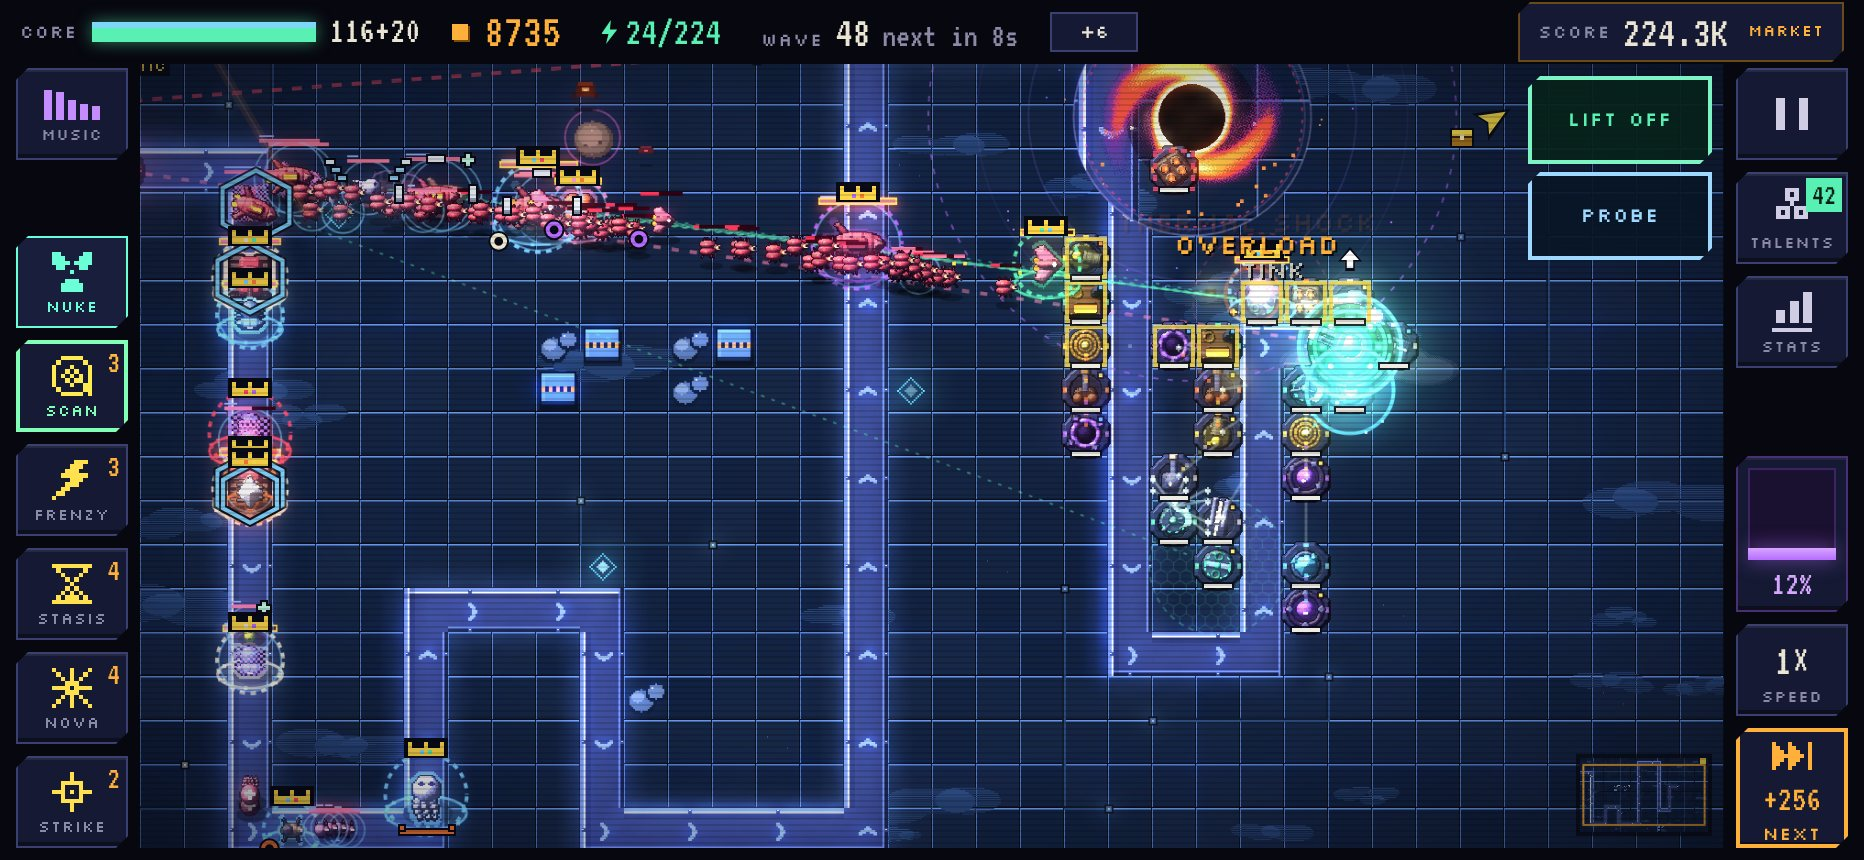
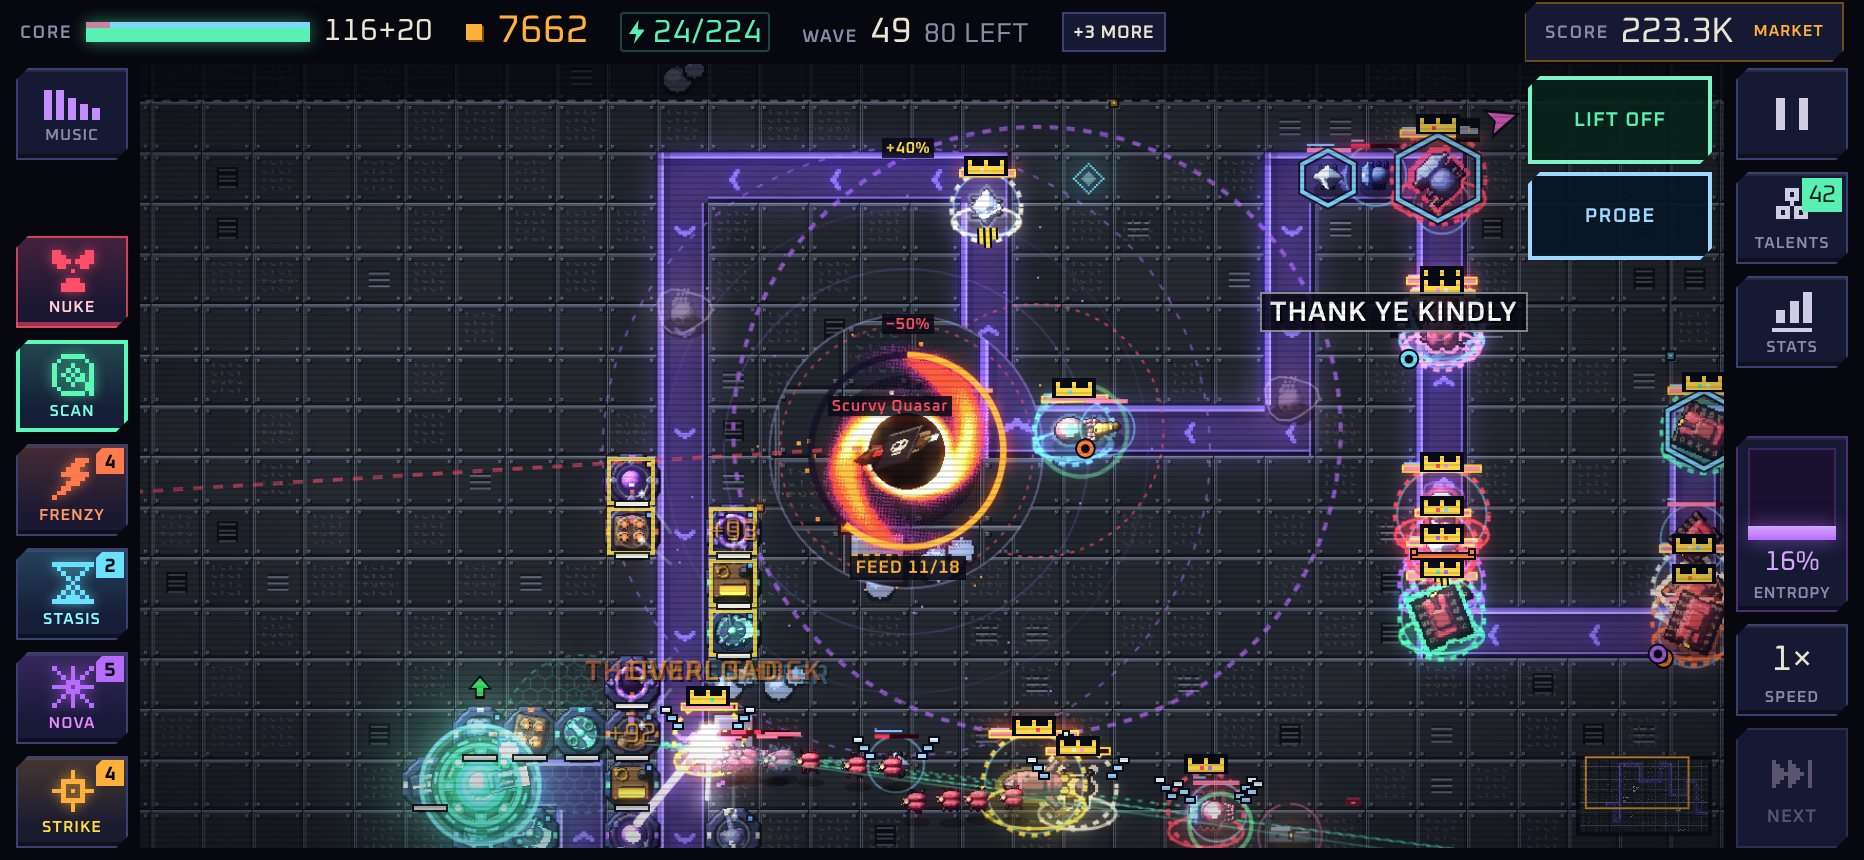
Website: match game 6.14 (Oxanium font, new shots, story line, Black Hole, probe and storms, checkpoints, Daily Hunt at Level 20 with shared dice, Training)
Claude-Session: https://claude.ai/code/session_01CJF2sFLs5GGkfx8iU7XwpD

diff --git a/index.html b/index.html
@@ -18,24 +18,25 @@
 <style>html{background:#07080f}body{margin:0}img{max-width:100%}[hidden]{display:none!important}</style>
 </head>
 <body>
-<link rel="stylesheet" href="https://fonts.googleapis.com/css2?family=Silkscreen:wght@400;700&family=VT323&display=swap">
+<link rel="stylesheet" href="https://fonts.googleapis.com/css2?family=Oxanium:wght@400;600;700&family=Silkscreen:wght@700&display=swap">
 <style>
 /* Layout: a left-aligned console column over the hangar sky. Title and sign-up first, then proof (screens), then the briefing. One dark world, the game's own. */
 :root {
   --bg: #07080f; --panel: #0e1121; --panel2: #151933; --line: #2a2f52; --line2: #3a4170;
-  --ink: #e9e4d4; --dim: #9a99b8; --amber: #ffb03a; --core: #59f0b4; --bad: #ff4d6a; --void: #b86cff; --cryo: #6ae2ff;
-  --f-pix: 'Silkscreen', 'Courier New', monospace; --f-term: 'VT323', 'Courier New', monospace;
+  --ink: #e9e4d4; --dim: #9a99b8; --amber: #ffb03a; --core: #59f0b4; --bad: #ff4d6a; --void: #b86cff; --cryo: #6ae2ff; --solar: #ff7b39;
+  --f-logo: 'Silkscreen', 'Courier New', monospace; --f-pix: 'Oxanium', 'Courier New', monospace; --f-term: 'Oxanium', 'Courier New', monospace;
   --cut: polygon(10px 0, 100% 0, 100% calc(100% - 10px), calc(100% - 10px) 100%, 0 100%, 0 10px);
   --w: 1120px;
   color-scheme: dark;
 }
 *, *::before, *::after { box-sizing: border-box; }
-body { background: var(--bg); color: var(--ink); font-family: var(--f-term); font-size: 22px; line-height: 1.25; }
+body { background: var(--bg); color: var(--ink); font-family: var(--f-term); font-size: 18px; line-height: 1.45; }
 .wrap { max-width: var(--w); margin: 0 auto; padding-left: max(20px, env(safe-area-inset-left, 0px)); padding-right: max(20px, env(safe-area-inset-right, 0px)); }
-h1, h2, h3, .lbl, button, .tag { font-family: var(--f-pix); font-weight: 400; }
-h2 { font-size: clamp(20px, 3vw, 28px); letter-spacing: 0.08em; margin: 0; text-wrap: balance; color: var(--ink); }
+h2, h3, .lbl, button, .tag { font-family: var(--f-pix); font-weight: 700; text-transform: uppercase; }
+h1 { font-family: var(--f-logo); font-weight: 700; }
+h2 { font-size: clamp(22px, 3vw, 30px); letter-spacing: 0.06em; line-height: 1.15; margin: 0; text-wrap: balance; color: var(--ink); }
 p { margin: 0; max-width: 60ch; }
-.lbl { font-size: 11px; letter-spacing: 0.22em; text-transform: uppercase; color: var(--dim); }
+.lbl { font-size: 12px; font-weight: 600; letter-spacing: 0.2em; text-transform: uppercase; color: var(--dim); }
 a { color: var(--cryo); }
 :focus-visible { outline: 2px solid var(--amber); outline-offset: 3px; }
 
@@ -46,26 +47,27 @@ a { color: var(--cryo); }
   -webkit-mask-image: linear-gradient(90deg, transparent, #000 30%); mask-image: linear-gradient(90deg, transparent, #000 30%); }
 .hero .wrap { position: relative; padding-block: clamp(40px, 8vw, 96px) clamp(36px, 6vw, 72px); display: flex; flex-direction: column; gap: 28px; }
 .status { display: flex; flex-wrap: wrap; gap: 10px 18px; align-items: center; }
-.tag { font-size: 11px; letter-spacing: 0.2em; padding: 6px 10px; color: var(--bg); background: var(--core); clip-path: polygon(5px 0, 100% 0, 100% calc(100% - 5px), calc(100% - 5px) 100%, 0 100%, 0 5px); }
+.tag { font-size: 12px; letter-spacing: 0.18em; padding: 6px 10px; color: var(--bg); background: var(--core); clip-path: polygon(5px 0, 100% 0, 100% calc(100% - 5px), calc(100% - 5px) 100%, 0 100%, 0 5px); }
 h1 { margin: 0; line-height: 0.95; position: relative; width: fit-content; max-width: 100%; }
 h1 .last { display: block; font-size: clamp(16px, 3.4vw, 34px); letter-spacing: 0.55em; margin-bottom: 0.35em; color: var(--ink); text-shadow: 2px 0 var(--bad), -2px 0 var(--cryo); }
 h1 .grad { display: block; font-weight: 700; font-size: clamp(38px, 10.5vw, 118px); letter-spacing: 0.02em;
   background: linear-gradient(90deg, var(--ink) 0%, var(--ink) 34%, var(--cryo) 62%, var(--void) 86%, transparent 100%);
   -webkit-background-clip: text; background-clip: text; color: transparent; filter: drop-shadow(3px 0 0 rgba(255, 77, 106, 0.55)); }
 #shards { position: absolute; right: -14%; top: 20%; width: 46%; height: 90%; pointer-events: none; }
-.pitch { font-size: clamp(24px, 3vw, 32px); line-height: 1.15; max-width: 28ch; }
-.pitch b { color: var(--amber); font-weight: 400; }
+.pitch { font-size: clamp(21px, 2.6vw, 27px); line-height: 1.3; max-width: 30ch; font-weight: 600; }
+.pitch b { color: var(--amber); font-weight: 600; }
+.lore { color: var(--dim); max-width: 44ch; padding-left: 14px; box-shadow: inset 2px 0 0 var(--cryo); }
 
 /* ---- sign-up ---- */
 .signup { display: flex; flex-direction: column; gap: 10px; max-width: 520px; }
 .signup .row { display: flex; flex-wrap: wrap; gap: 10px; }
-.signup input { flex: 1 1 220px; min-width: 0; font: inherit; font-size: 22px; color: var(--ink); background: rgba(14, 17, 33, 0.88); border: 0; box-shadow: inset 0 0 0 2px var(--line2); padding: 12px 14px; clip-path: var(--cut); }
+.signup input { flex: 1 1 220px; min-width: 0; font: inherit; font-size: 18px; color: var(--ink); background: rgba(14, 17, 33, 0.88); border: 0; box-shadow: inset 0 0 0 2px var(--line2); padding: 12px 14px; clip-path: var(--cut); }
 .signup input::placeholder { color: var(--dim); }
 .signup input:focus-visible { outline: none; box-shadow: inset 0 0 0 2px var(--amber); }
 .signup button { flex: 0 0 auto; font-size: 14px; letter-spacing: 0.18em; color: #0b0b12; background: var(--amber); border: 0; padding: 14px 22px; cursor: pointer; clip-path: var(--cut); box-shadow: inset 0 -4px 0 rgba(0, 0, 0, 0.22); }
 .signup button:hover { background: #ffc264; }
-.signup small { font-size: 18px; color: var(--dim); }
-.signup .msg { font-size: 20px; color: var(--core); min-height: 1.25em; }
+.signup small { font-size: 15px; color: var(--dim); }
+.signup .msg { font-size: 16px; color: var(--core); min-height: 1.25em; }
 .signup .msg.err { color: var(--bad); }
 
 /* ---- sections ---- */
@@ -73,26 +75,26 @@ section .wrap { padding-block: clamp(40px, 6vw, 72px); display: flex; flex-direc
 .head { display: flex; flex-direction: column; gap: 10px; }
 .shot { margin: 0; display: flex; flex-direction: column; gap: 10px; }
 .shot img { display: block; width: 100%; height: auto; clip-path: var(--cut); box-shadow: 0 0 0 1px var(--line2); image-rendering: auto; background: var(--panel); }
-.shot figcaption { font-size: 20px; color: var(--dim); max-width: 60ch; }
-.shot figcaption b { color: var(--ink); font-weight: 400; }
+.shot figcaption { font-size: 16px; color: var(--dim); max-width: 64ch; }
+.shot figcaption b { color: var(--ink); font-weight: 600; }
 .pair { display: grid; grid-template-columns: repeat(auto-fit, minmax(min(100%, 420px), 1fr)); gap: 26px; }
 
 .brief { border-block: 1px solid var(--line); background: linear-gradient(180deg, var(--panel), var(--bg)); }
 .facts { display: grid; grid-template-columns: repeat(auto-fit, minmax(min(100%, 300px), 1fr)); gap: 0; margin: 0; padding: 0; list-style: none; border-top: 1px solid var(--line); }
 .facts li { padding: 20px 22px 22px 0; border-bottom: 1px solid var(--line); display: flex; flex-direction: column; gap: 8px; min-width: 0; }
-.facts h3 { margin: 0; font-size: 14px; letter-spacing: 0.14em; color: var(--c, var(--core)); }
-.facts p { color: var(--ink); font-size: 21px; }
-.facts .n { color: var(--amber); }
+.facts h3 { margin: 0; font-size: 15px; letter-spacing: 0.1em; color: var(--c, var(--core)); }
+.facts p { color: var(--ink); font-size: 17px; }
+.facts .n { color: var(--amber); font-weight: 700; }
 .intro { color: var(--dim); max-width: 58ch; }
 
 .letter { display: flex; flex-direction: column; gap: 16px; }
 .letter p { max-width: 62ch; }
-.letter .sig { font-family: var(--f-pix); font-size: 16px; letter-spacing: 0.12em; color: var(--amber); }
+.letter .sig { font-family: var(--f-pix); font-weight: 700; font-size: 18px; letter-spacing: 0.12em; color: var(--amber); }
 .deal { margin: 0; padding: 0; list-style: none; display: flex; flex-wrap: wrap; gap: 10px 34px; }
 .deal li { padding-left: 20px; position: relative; }
 .deal li::before { content: ""; position: absolute; left: 0; top: 0.42em; width: 9px; height: 9px; background: var(--core); }
 
-footer .wrap { padding-block: 28px 40px; display: flex; flex-wrap: wrap; gap: 10px 32px; justify-content: space-between; color: var(--dim); font-size: 19px; border-top: 1px solid var(--line); }
+footer .wrap { padding-block: 28px 40px; display: flex; flex-wrap: wrap; gap: 10px 32px; justify-content: space-between; color: var(--dim); font-size: 15px; border-top: 1px solid var(--line); }
 footer span.sel { color: var(--ink); user-select: all; }
 
 /* faint stars so the dark areas are not empty */
@@ -102,37 +104,37 @@ body { background-image: radial-gradient(1.5px 1.5px at 40px 70px, rgba(233,228,
 /* ---- PC layout: wider column, larger type, the game shot overlaps the hero, the letter gets a side panel ---- */
 @media (min-width: 1000px) {
   :root { --w: 1320px; }
-  body { font-size: 26px; }
-  .lbl, .tag { font-size: 13px; }
-  h2 { font-size: 38px; }
+  body { font-size: 21px; }
+  .lbl, .tag { font-size: 14px; }
+  h2 { font-size: 40px; }
   .hero { border-bottom: 0; }
   .hero .wrap { padding-block: clamp(56px, 9vh, 110px) 250px; gap: 34px; }
   h1 .last { font-size: 44px; }
   h1 .grad { font-size: clamp(118px, 9vw, 168px); }
-  .pitch { font-size: 40px; max-width: 30ch; }
+  .pitch { font-size: 33px; max-width: 30ch; }
+  .lore { font-size: 23px; }
   .signup { max-width: 620px; }
-  .signup input { font-size: 26px; padding: 15px 18px; }
+  .signup input { font-size: 21px; padding: 15px 18px; }
   .signup button { font-size: 16px; padding: 17px 30px; }
-  .signup small { font-size: 21px; }
-  .signup .msg { font-size: 23px; }
+  .signup small { font-size: 17px; }
+  .signup .msg { font-size: 18px; }
   .lead { margin-top: -190px; position: relative; }
   .lead .wrap { padding-top: 0; }
   .device { padding: 16px; background: #04050a; border-radius: 52px; box-shadow: 0 0 0 2px var(--line2), 0 0 0 10px rgba(14,17,33,.9), 0 50px 140px rgba(106,226,255,.10), 0 40px 90px rgba(0,0,0,.7); }
   .device img { border-radius: 36px; clip-path: none; box-shadow: none; }
-  .shot figcaption { font-size: 23px; }
+  .shot figcaption { font-size: 19px; }
   .facts { grid-template-columns: repeat(3, minmax(0, 1fr)); }
   .facts li { padding: 30px 40px 34px 0; gap: 12px; }
   .facts h3 { font-size: 20px; }
-  .facts p { font-size: 25px; }
-  .facts .n { font-family: var(--f-pix); font-size: 0.86em; }
+  .facts p { font-size: 19px; }
   .pair { gap: 40px; }
   .story { display: grid; grid-template-columns: minmax(0, 1.4fr) minmax(0, 1fr); gap: 90px; align-items: start; }
   .letter { gap: 20px; }
   .side { position: sticky; top: 40px; padding: 36px; background: var(--panel); box-shadow: inset 0 0 0 1px var(--line2); clip-path: var(--cut); gap: 28px; }
   .deal { flex-direction: column; gap: 12px; }
-  footer .wrap { font-size: 22px; }
+  footer .wrap { font-size: 18px; }
 }
-@media (max-width: 640px) { #sky { inset: 0; width: 100%; opacity: 0.5; -webkit-mask-image: none; mask-image: none; } #shards { display: none; } body { font-size: 20px; } }
+@media (max-width: 640px) { #sky { inset: 0; width: 100%; opacity: 0.5; -webkit-mask-image: none; mask-image: none; } #shards { display: none; } body { font-size: 17px; } }
 </style>
 
 <header class="hero">
@@ -141,6 +143,7 @@ body { background-image: radial-gradient(1.5px 1.5px at 40px 70px, rgba(233,228,
     <div class="status"><span class="tag">COMING SOON</span><span class="lbl">iPhone and iPad · Tower defense</span></div>
     <h1 aria-label="Last Gradient"><span class="last">LAST</span><span class="grad">GRADIENT</span><canvas id="shards" aria-hidden="true"></canvas></h1>
     <p class="pitch">A deep, retro space tower defense. <b>Easy to pick up, hard to master.</b> Endless runs. No ads.</p>
+    <p class="lore">The Last Gradient is the last fire in a dead universe. Everything that survived the dark wants it. You hold it.</p>
     <form class="signup" id="signupTop" novalidate>
       <label class="lbl" for="emailTop">Launch news</label>
       <div class="row"><input id="emailTop" type="email" name="email" autocomplete="email" inputmode="email" placeholder="you@example.com" required><button type="submit">NOTIFY ME</button></div>
@@ -153,8 +156,8 @@ body { background-image: radial-gradient(1.5px 1.5px at 40px 70px, rgba(233,228,
 <section class="lead">
   <div class="wrap">
     <figure class="shot">
-      <div class="device"><img src="img/fight.jpg" alt="A late wave: enemy swarms crowd the road toward a line of towers while a black hole pulls at the field." width="1864" height="860"></div>
-      <figcaption><b>Wave 48.</b> A black hole event opens beside the road, and the swarm keeps coming.</figcaption>
+      <div class="device"><img src="img/fight.jpg" alt="Wave 49: a Black Hole sits beside the road among the towers, its feed meter at 11 of 18, while the swarm presses toward the core." width="1864" height="860"></div>
+      <figcaption><b>Wave 49.</b> A Black Hole has landed beside the road. Feed it 18 kills before it closes and it collapses on the swarm. Starve it and it spits enemies back out.</figcaption>
     </figure>
   </div>
 </section>
@@ -167,9 +170,12 @@ body { background-image: radial-gradient(1.5px 1.5px at 40px 70px, rgba(233,228,
       <li style="--c: var(--core)"><h3>Your Base Can Fly</h3><p>Your core is not bolted down. Tap Lift Off, pick a landing spot, and the swarm reroutes to follow you. Land on a tower and the core takes its gun: <span class="n">×2</span> damage and +1 range, while its own gun keeps firing.</p></li>
       <li style="--c: var(--amber)"><h3>Builds That Play Differently</h3><p><span class="n">19</span> towers with upgrades, affixes and veteran ranks. <span class="n">7</span> Talent trees, each with a Capstone that changes how you play. Put 8 points into two trees to open their Fusion. There are <span class="n">21</span>, like Hot Rounds: Kinetic hits set enemies on fire.</p></li>
       <li style="--c: var(--bad)"><h3>A Swarm That Adapts</h3><p>Every few waves the swarm reads your defense and sends a strain built to beat it. You get one wave of warning, and selling is free until it lands. Whatever ends your run comes back next time as your Nemesis.</p></li>
-      <li style="--c: var(--void)"><h3>Endless Waves</h3><p>A run lasts until your core falls. A boss arrives every <span class="n">10</span> waves, each with phases and its own theme. Wormholes open new roads, and <span class="n">21</span> Anomalies trade power for risk, like Glass Sky: +35% damage, but no core shield.</p></li>
-      <li style="--c: var(--cryo)"><h3>Daily Hunt</h3><p>One map a day, with the same talent build for every player. Your first run counts. Every bounty you claim is a choice: Extract and end the run as a win, or push on for <span class="n">×1.25</span> score.</p></li>
+      <li style="--c: var(--void)"><h3>Endless Waves</h3><p>A run lasts until your core falls. A boss arrives every <span class="n">10</span> waves, each with phases and its own theme. Wormholes open new roads, and the wave before one lands is a checkpoint: <span class="n">90</span> seconds to rebuild, with full refunds. <span class="n">21</span> Anomalies trade power for risk, like Glass Sky: +35% damage, but no core shield.</p></li>
+      <li style="--c: var(--cryo)"><h3>Send the Probe</h3><p>Your probe is a small ship of your own. Send it to wreckage, gas clouds and asteroids, and it brings the salvage home by itself. Fly it into a storm to harvest an ability charge: an Ion Storm gives you a Strike, a Cryo Front a Stasis.</p></li>
+      <li style="--c: var(--solar)"><h3>The Map Fights Back</h3><p>Storms drift across the map. Each one boosts an element and hits the enemies under it: Ion Storms throw lightning, Solar Flares set them burning. A Black Hole wants kills. Feed it and it blasts the swarm, or aim a Strike inside it for a Gravity Bomb.</p></li>
+      <li style="--c: var(--core)"><h3>Daily Hunt</h3><p>One map a day. Every pilot gets the same talent build and the same big dice rolls, so the best play wins. Your first run counts. Every bounty you claim is a choice: Extract and end the run as a win, or push on for <span class="n">×1.25</span> score. It opens at Level <span class="n">20</span>.</p></li>
       <li style="--c: var(--ink)"><h3>Music That Writes Itself</h3><p>The soundtrack is composed live while you play, so it is never the same twice. Each of the <span class="n">13</span> bosses has its own theme. Open the Music Studio to change the genre, mix the parts or write your own tracks.</p></li>
+      <li style="--c: var(--amber)"><h3>Training Shows You How</h3><p>Training is one guided run of about <span class="n">10</span> minutes. It teaches the core, the probe, Lift Off and your first boss as each one comes up. The Field Manual explains every system when you want the detail.</p></li>
     </ul>
   </div>
 </section>

diff --git a/privacy.html b/privacy.html
@@ -7,24 +7,24 @@
 <meta name="description" content="What the Last Gradient website and game collect, and what they do not.">
 <meta name="theme-color" content="#07080f">
 <link rel="icon" type="image/png" href="icon-192.png">
-<link rel="stylesheet" href="https://fonts.googleapis.com/css2?family=Silkscreen:wght@400;700&family=VT323&display=swap">
+<link rel="stylesheet" href="https://fonts.googleapis.com/css2?family=Oxanium:wght@400;600;700&display=swap">
 <style>
 :root { --bg: #07080f; --line: #2a2f52; --ink: #e9e4d4; --dim: #9a99b8; --amber: #ffb03a; --core: #59f0b4; --cryo: #6ae2ff;
-  --f-pix: 'Silkscreen', 'Courier New', monospace; --f-term: 'VT323', 'Courier New', monospace; color-scheme: dark; }
+  --f-pix: 'Oxanium', 'Courier New', monospace; --f-term: 'Oxanium', 'Courier New', monospace; color-scheme: dark; }
 *, *::before, *::after { box-sizing: border-box; }
 html { background: var(--bg); }
-body { margin: 0; background: var(--bg); color: var(--ink); font-family: var(--f-term); font-size: 22px; line-height: 1.3; }
+body { margin: 0; background: var(--bg); color: var(--ink); font-family: var(--f-term); font-size: 18px; line-height: 1.5; }
 main { max-width: 760px; margin: 0 auto; padding-block: 40px 64px; padding-left: max(20px, env(safe-area-inset-left, 0px)); padding-right: max(20px, env(safe-area-inset-right, 0px)); display: flex; flex-direction: column; gap: 18px; }
-h1, h2, .lbl { font-family: var(--f-pix); font-weight: 400; margin: 0; }
+h1, h2, .lbl { font-family: var(--f-pix); font-weight: 700; text-transform: uppercase; margin: 0; }
 h1 { font-size: clamp(26px, 5vw, 40px); letter-spacing: 0.06em; }
-h2 { font-size: 16px; letter-spacing: 0.14em; color: var(--core); margin-top: 18px; padding-top: 22px; border-top: 1px solid var(--line); }
-.lbl { font-size: 11px; letter-spacing: 0.22em; text-transform: uppercase; color: var(--dim); }
+h2 { font-size: 17px; letter-spacing: 0.1em; color: var(--core); margin-top: 18px; padding-top: 22px; border-top: 1px solid var(--line); }
+.lbl { font-size: 12px; font-weight: 600; letter-spacing: 0.2em; text-transform: uppercase; color: var(--dim); }
 p, ul { margin: 0; max-width: 62ch; }
 ul { padding-left: 1.1em; display: flex; flex-direction: column; gap: 6px; }
 a { color: var(--cryo); }
 :focus-visible { outline: 2px solid var(--amber); outline-offset: 3px; }
 .sel { user-select: all; color: var(--amber); }
-@media (max-width: 640px) { body { font-size: 20px; } }
+@media (max-width: 640px) { body { font-size: 17px; } }
 </style>
 </head>
 <body>
